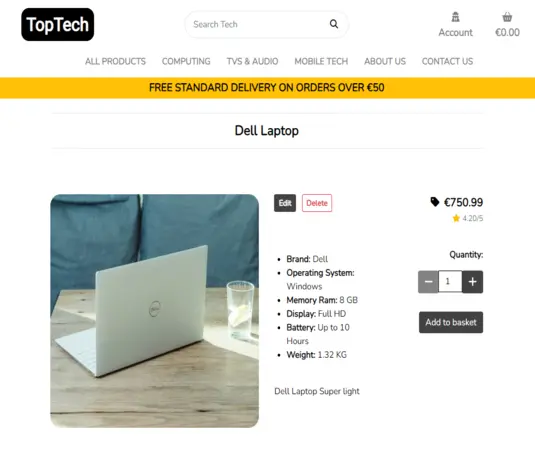
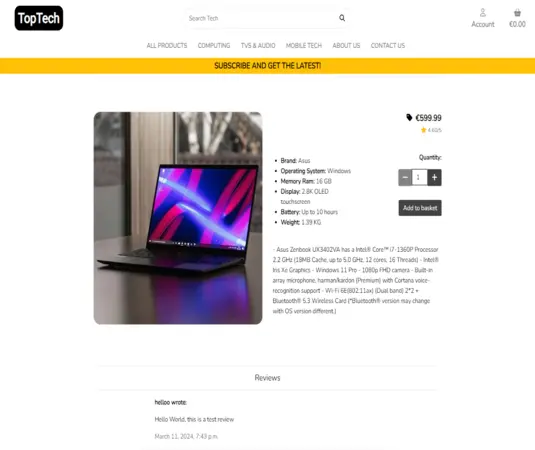
finish update readme features

diff --git a/README.md b/README.md
@@ -542,99 +542,171 @@ Entity Relationship Diagram (ERD) was used to help understand the relationships 
     ![image](assets/readme/features/pages/delete_account.webp)
     ![image](assets/readme/features/notifications_confirmations/delete_account_notification.webp)
 
-- #### Forum Page
+- #### Products Page
 
-  - x
-  - x
-  - x
-  - x
-  - x
-  - x
+  - The Users once in the products page will be able to start shopping for the latest Tech.
+  - The products are presented with the brand, model, image of the product, main features, rating and price
+  - The User will be able to click on the product to see the detailed product or add it to the basket
+  - The Users will be able to sort the products by price, rating and name.
+  - The products page is paginated by 25
 
-    ![image](x)
-    ![image](x)
+    ![image](assets/readme/features/pages/products.webp)
 
-- #### Post Detail Page
+  - The Products has also four main dropdown menus
+    - **All Products** has the following menus
+      - By Price
+      - By Rating
+      - By Category
+      - All Products
 
-  - x
-  - x
-  - x
-  - x
+        ![image](assets/readme/features/navbar_footer/all_products_menu.webp)
 
-    ![image](x)
+    - **Computing** has the following menus
+      - Laptops
+      - Desktops
+      - Gaming Computer
+      - All Computers
 
-- #### Add post page
+        ![image](assets/readme/features/navbar_footer/computing_menu.webp)
 
-  - x
-  - x
-  - x
-  - x
+    - **TVs & Audio** have the following menus
+      - TVs
+      - Home Cinema
+      - Headphones
+      - Radios
+      - All TVs & Audio
 
-    ![image](x)
-    ![image](x)
+        ![image](assets/readme/features/navbar_footer/tv&audio_menu.webp)
 
-- #### Edit Post Page
+    - **Mobile Tech** has the following menus
+      - Mobile phones
+      - Tablets
+      - All Mobile Tech
 
-  - x
-  - x
-  - x
+        ![image](assets/readme/features/navbar_footer/mobile_tech_menu.webp)
 
-    ![image](x)
-    ![image](x)
+- #### Product Detail Page
 
-- #### Delete Post Page
+  - Once the product is selected, the User is presented with the detailed product.
+  - **Edit** and **Delete** buttons are only available if User is logged in as an Admin.
+  - The product is presented with the brand, model, image of the product, main features, rating, price and a detailed information about it.
+  - Also reviews are available on each product, everybody can read the reviews but **only** logged in Users can write a review.
 
-  - x
-  - x
+    ![image](assets/readme/features/pages/product_detail.webp)
 
-    ![image](x)
-    ![image](x)
+- #### Add product page
 
-- #### Add Comment
+  - Only Admin can add new products.
+  - Once in the Product Management which can be accessed through the **Account** menu, a add product form is displayed for the Admin to fill.
+    
+    ![image](assets/readme/features/pages/add_product.webp)
 
-  - x
-  - x
-  - x
+  - If submited and no product image is selected, the form will add a default one automatically.
+  - And you will also get a successfull notification.
 
-    ![image](x)
-    ![image](x)
+    ![image](assets/readme/features/notifications_confirmations/add_product_notification.webp)
 
-- #### Edit Comment Page
+- #### Edit Product Page
 
-  - x
-  - x
+  - Available only as an **Admin**, once in the product detail if logged in as Admin you will have access to **Edit** button.
+  - If clicked the Admin is taken to Edit product page where will be able to update the product such as price
 
-    ![image](x)
-    ![image](x)
+    ![image](assets/readme/features/pages/edit_product.webp)
 
-- #### Delete Comment Page
+  - If updated and submited the Admin will have a notificaion.
 
-  - x
-  - x
+    ![image](assets/readme/features/notifications_confirmations/edit_product_notification.webp)
 
-    ![image](x)
-    ![image](x)
+- #### Delete product Page
 
-- #### 403 Error Page
+  - Available only as an **Admin**, once in the product detail if logged in as Admin you will have access to **Delete** button
+  - If clicked the Admin is taken to Delete product page where will be asked whether wants or not to delete the product.
 
-  - x
-  - x
+    ![image](assets/readme/features/pages/delete_product.webp)
 
-    ![image](x)
+  - If updated and submited the Admin will have a notificaion.
+
+    ![image](assets/readme/features/notifications_confirmations/delete_product_notification.webp)
+
+- #### Add Review
+
+  - The reviews are available at the bottom of each product.
+  - Everybody can read the reviews but **only** logged in Users can write a review.
+  - To write a review all you have to do is scroll down in the product detail page till you see the box thats says "Write a review...", type your review and click add.
+
+    ![image](assets/readme/features/pages/add_review.webp)
+
+  - If the review is submited, it will automatically be displayed in the product reviews and you will also get a notification confirming it.
+
+    ![image](assets/readme/features/notifications_confirmations)
+
+- #### Edit Review Page
+
+  - **Edit** review button is only displayed to the owner of the review and at the the right side of the review.
+  - If pressed the User is taken to the edit review page, where will be able to update the review.
+
+    ![image](assets/readme/features/pages/edit_review.webp)
+
+  - If the review is updated the User is redirected back to the product where will be able to visualize the review and also a notification is displayed to confirm the that the review was updated.
+
+    ![image](assets/readme/features/notifications_confirmations/edit_review_notification.webp)
+
+- #### Delete review Page
+
+  - **Delete** review button is only displayed to the owner of the review and at the the right side of the review.
+  - If pressed the User is taken to the delete review page, where will be asked whether wants or not to delete the review.
+
+    ![image](assets/readme/features/pages/delete_review.webp)
+
+  - If the review is deleted the User is redirected to the product page and a notification will be displayed to confirm the deletion of the review.
+
+    ![image](assets/readme/features/notifications_confirmations/delete_review_notification.webp)
+
+- #### Basket Page
+
+  - If the User has products added to the basket and clicks on the basket is taken to the **Basket** page.
+  - Within the basket you can visualize the product, you can update product quantities and delete the product from the basket.
+  - The User has also two button options, "Keep Shopping" and "Checkout".
+
+    ![image](assets/readme/features/pages/basket.webp)
+
+  - If Basket is empty you will have only the "Keep Shopping" button.
+
+    ![image](assets/readme/features/pages/basket_empty.webp)
+
+- #### Checkout Page
+
+  - If the User does want to checkout, the Order Summary is displayed and also a form to fill with personal details, delivery information and payment details.
+
+    ![image](assets/readme/features/pages/checkout.webp)
+
+- #### Checkout success Page
+
+  - After the payment successfuly gone through the User is taken to the checkout success page where will be able to check the Order detail
+
+    ![image](assets/readme/features/pages/checkout_success.webp)
+
+  - The User will get a notification confirming it
+
+    ![image](assets/readme/features/notifications_confirmations/order_confimation_notification.webp)
+
+  - And also an email with the order number confirming it
+
+    ![image](assets/readme/features/notifications_confirmations/order_email_confirmation.webp)
+
+- #### Purchases Page
+
+  - **Purchases** the User can access it through the **Account** menu.
+  - When Purchases page is oppened a list of the orders made is displayed.
+
+    ![image](assets/readme/features/pages/purchases.webp)
 
 - #### 404 Error Page
 
-  - x
-  - x
+  - If User tried to access something that does not exists a **404 error** page is displayed, to show the User that shouldn't be there 
+  - The **Home Page** button will take you back to the Home page
 
-    ![image](x)
-
-- #### 500 Error Page
-
-  - x
-  - x
-
-    ![image](x)
+    ![image](assets/readme/features/pages/404_error.webp)
 
 - #### Admin Page
 
